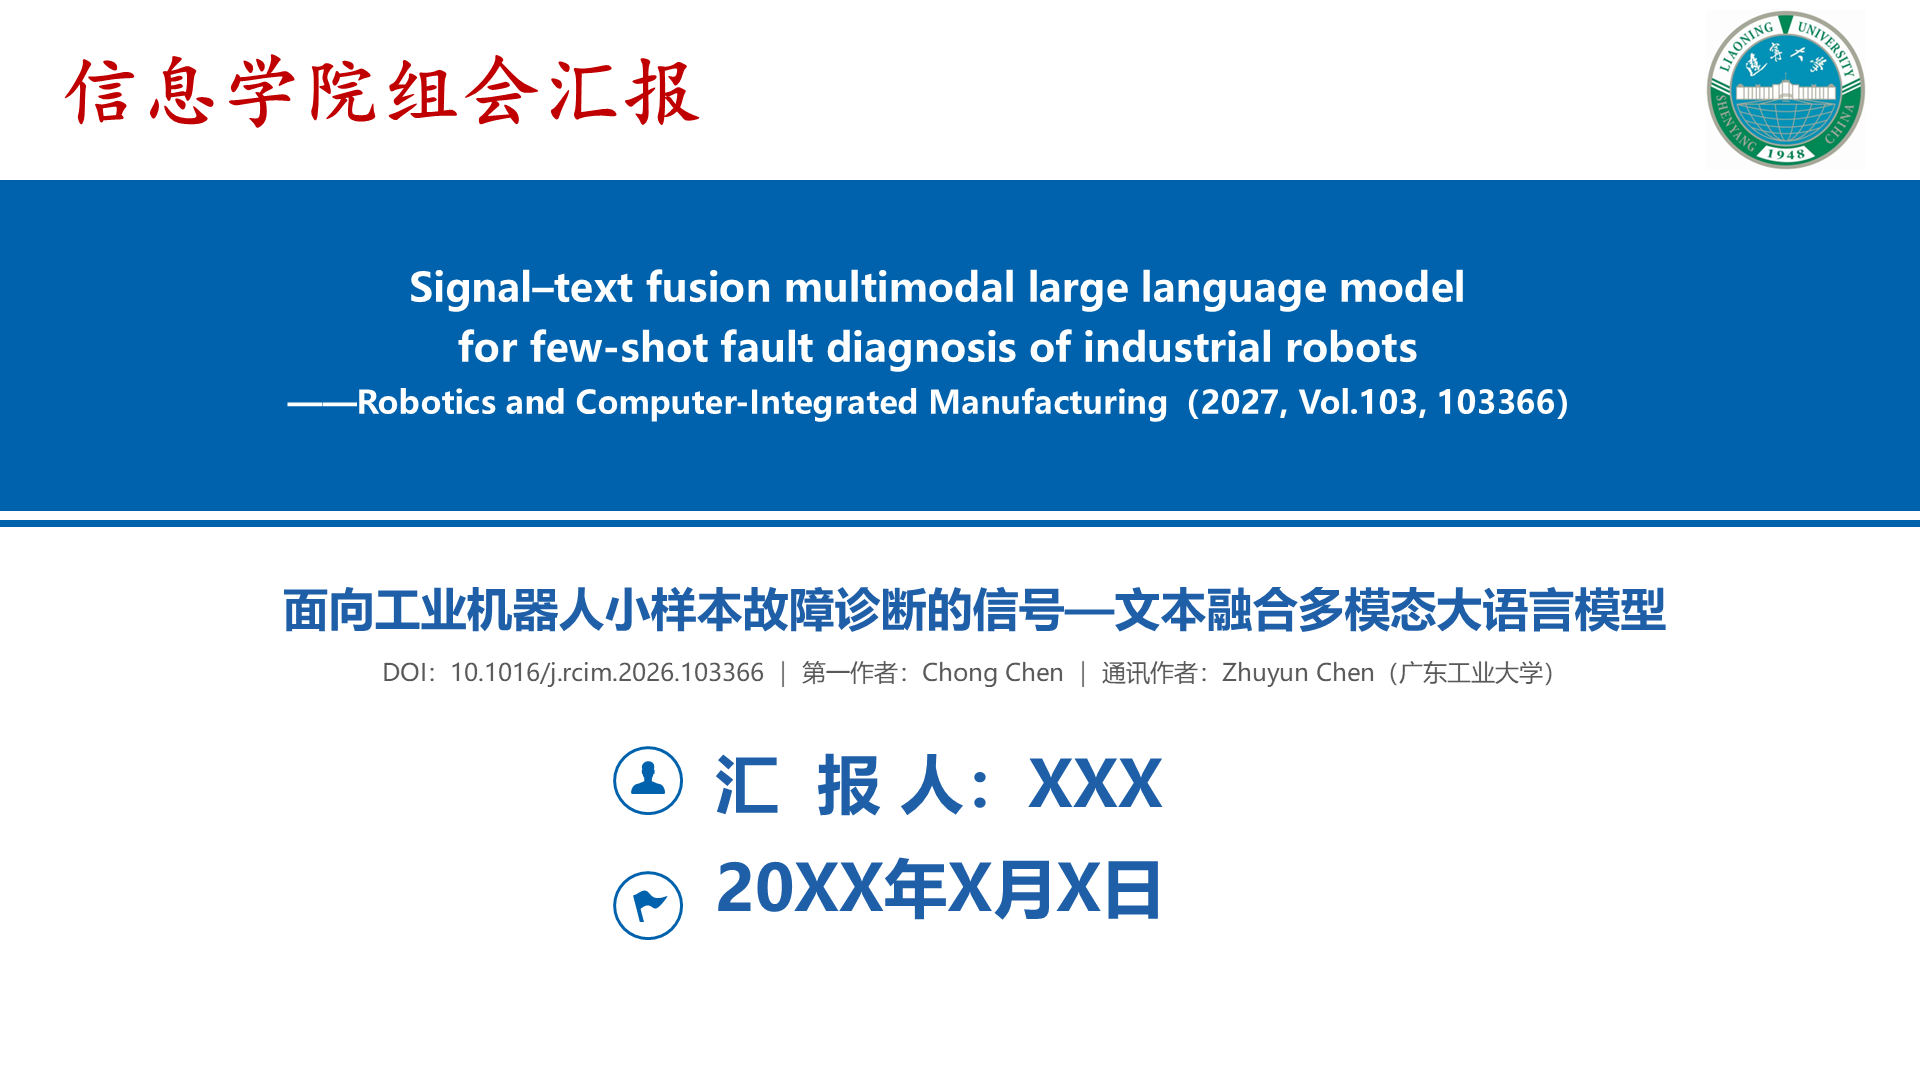
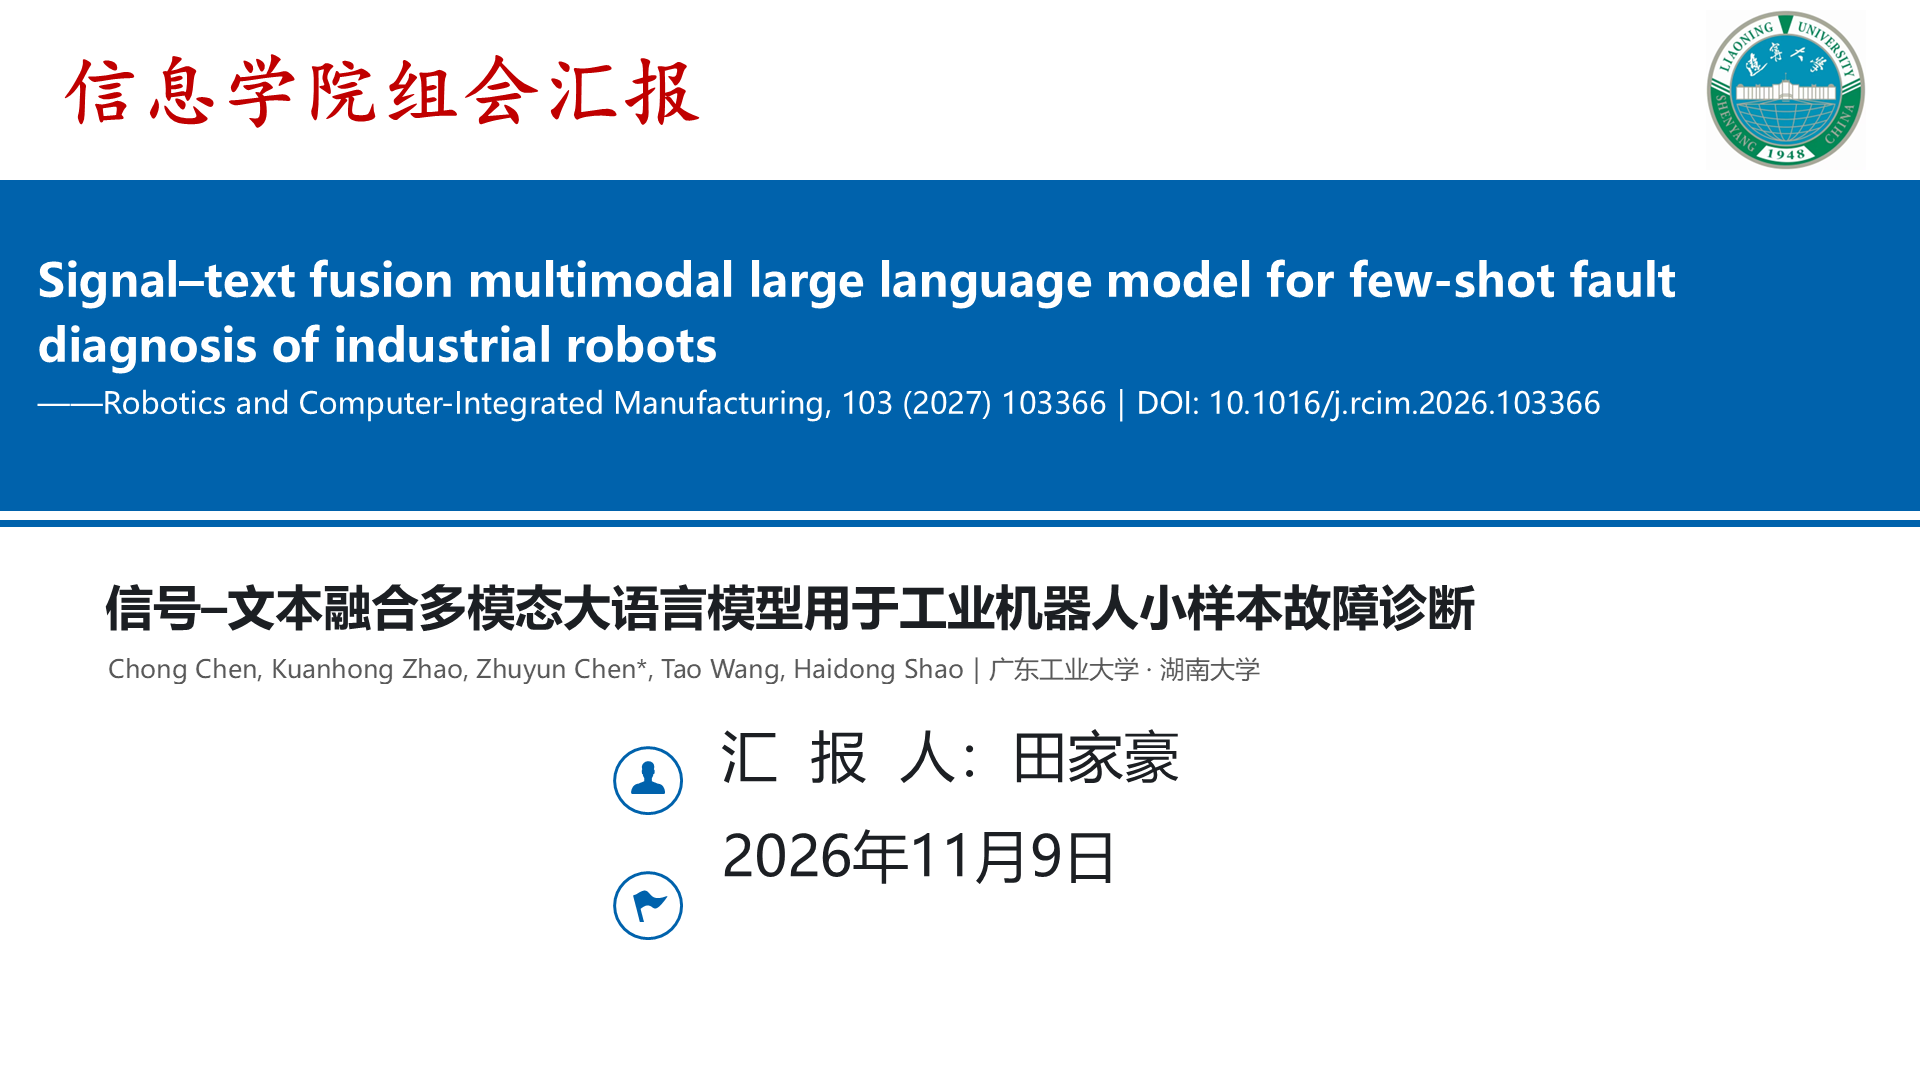
docs: refresh example screenshots for the new two-page abstract layout

Changed region(s): [[0.0, 0.2444, 0.875, 0.3972], [0.0312, 0.5194, 0.875, 0.6417], [0.375, 0.6722, 0.625, 0.8556]]

diff --git a/README.md b/README.md
@@ -176,15 +176,17 @@ python scripts/adapt_template.py 我的模板.pptx -o tpl_map.json
 
 以 **《Signal–text fusion multimodal large language model for few-shot fault diagnosis of industrial robots》** 论文为例
 （*Robotics and Computer-Integrated Manufacturing*, 2027, 103: 103366，DOI: [10.1016/j.rcim.2026.103366](https://doi.org/10.1016/j.rcim.2026.103366)），
-下面 6 页全部由本 skill 生成（汇报人与日期按占位符显示）：
+下面 7 页全部由本 skill 生成（汇报人与日期按占位符显示）：
 
-| 封面 | 摘要 |
+| 封面 | 摘要（只放摘要） |
 |---|---|
 | ![封面](docs/example/01-cover.png) | ![摘要](docs/example/02-abstract.png) |
-| **整体框架与全流程（创新点第一页）** | **创新点（白话解释 + 方法图局部）** |
-| ![框架](docs/example/03-framework.png) | ![创新点](docs/example/04-innovation.png) |
-| **对比实验（数值 + 读图结论）** | **结论** |
-| ![实验](docs/example/05-experiment.png) | ![结论](docs/example/06-conclusion.png) |
+| **问题 / 方法（红色小标题 + 黑色正文）** | **整体框架与全流程（创新点第一页）** |
+| ![问题](docs/example/03-problems.png) | ![框架](docs/example/04-framework.png) |
+| **创新点（标签高亮 + 方法图局部）** | **对比实验（数值 + 读图结论）** |
+| ![创新点](docs/example/05-innovation.png) | ![实验](docs/example/06-experiment.png) |
+| **结论** | |
+| ![结论](docs/example/07-conclusion.png) | |
 
 ## 🎨 自带模板 `assets/template.pptx`
 

diff --git a/README.en.md b/README.en.md
@@ -186,15 +186,17 @@ so the audience can judge whether the results are trustworthy.
 Based on **“Signal–text fusion multimodal large language model for few-shot fault diagnosis of industrial robots”**
 (*Robotics and Computer-Integrated Manufacturing*, 2027, 103: 103366,
 DOI: [10.1016/j.rcim.2026.103366](https://doi.org/10.1016/j.rcim.2026.103366)).
-All six slides below were generated by this skill (presenter and date shown as placeholders):
+All seven slides below were generated by this skill (presenter and date shown as placeholders):
 
-| Cover | Abstract |
+| Cover | Abstract (abstract only) |
 |---|---|
 | ![Cover](docs/example/01-cover.png) | ![Abstract](docs/example/02-abstract.png) |
-| **Full pipeline (first novelty slide)** | **Novelty (plain language + cropped figure)** |
-| ![Framework](docs/example/03-framework.png) | ![Novelty](docs/example/04-innovation.png) |
-| **Comparison experiment** | **Conclusion** |
-| ![Experiment](docs/example/05-experiment.png) | ![Conclusion](docs/example/06-conclusion.png) |
+| **Problems / solutions (red subheads, black body)** | **Full pipeline (first novelty slide)** |
+| ![Problems](docs/example/03-problems.png) | ![Framework](docs/example/04-framework.png) |
+| **Novelty (highlighted labels + cropped figure)** | **Comparison experiment** |
+| ![Novelty](docs/example/05-innovation.png) | ![Experiment](docs/example/06-experiment.png) |
+| **Conclusion** | |
+| ![Conclusion](docs/example/07-conclusion.png) | |
 
 ## 🎨 Bundled template
 
